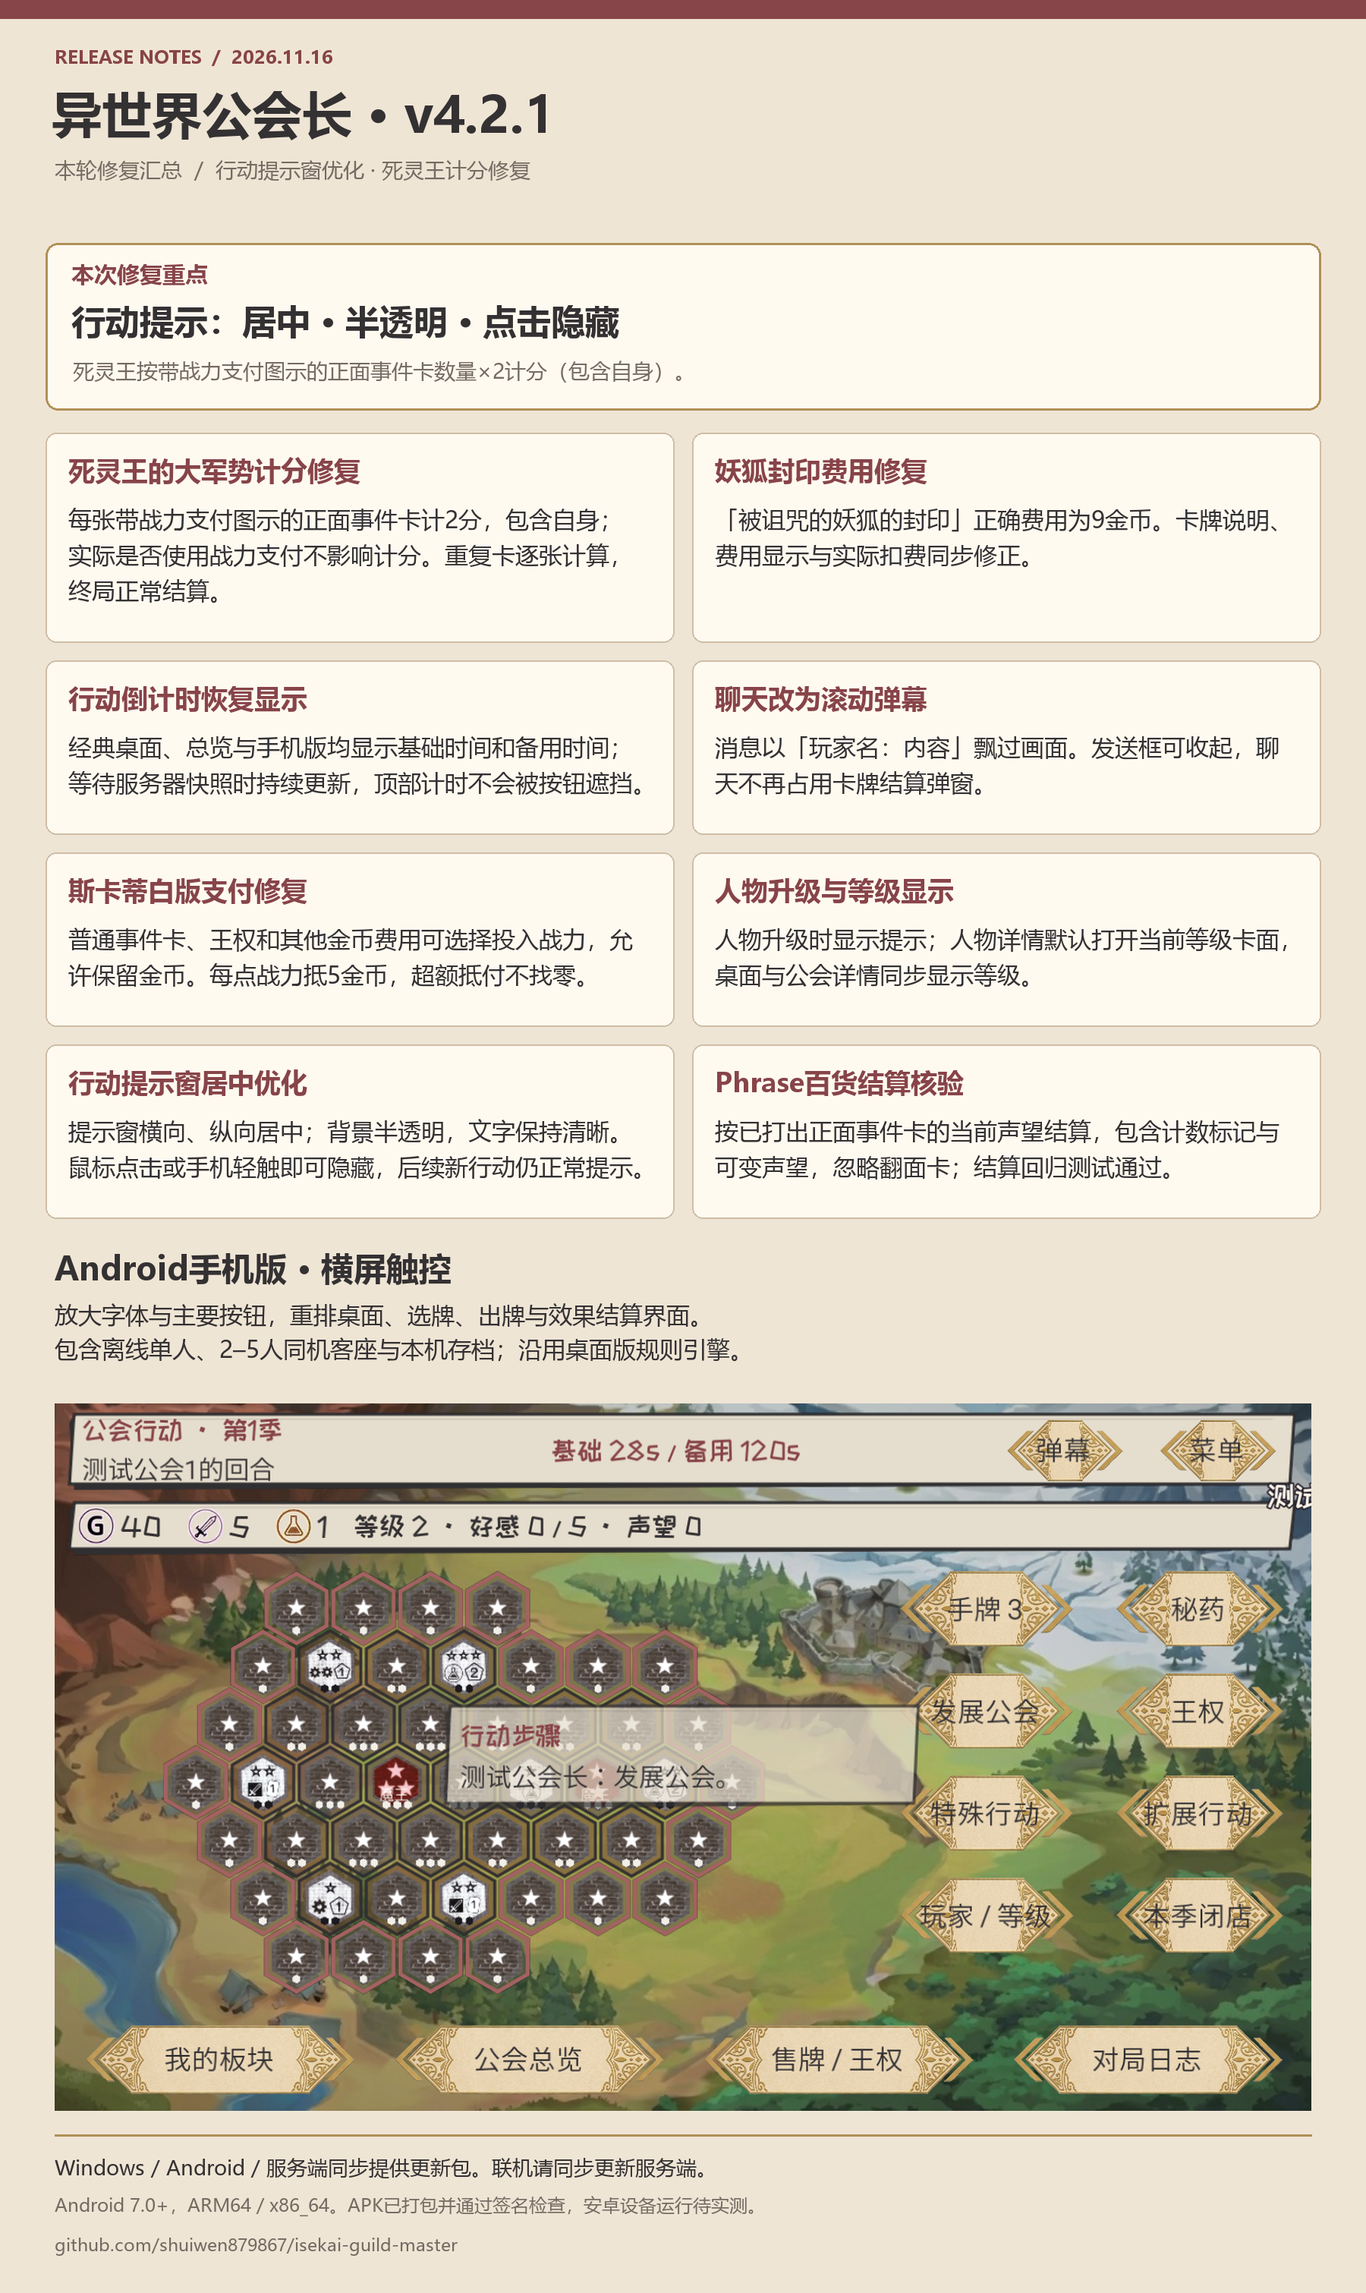
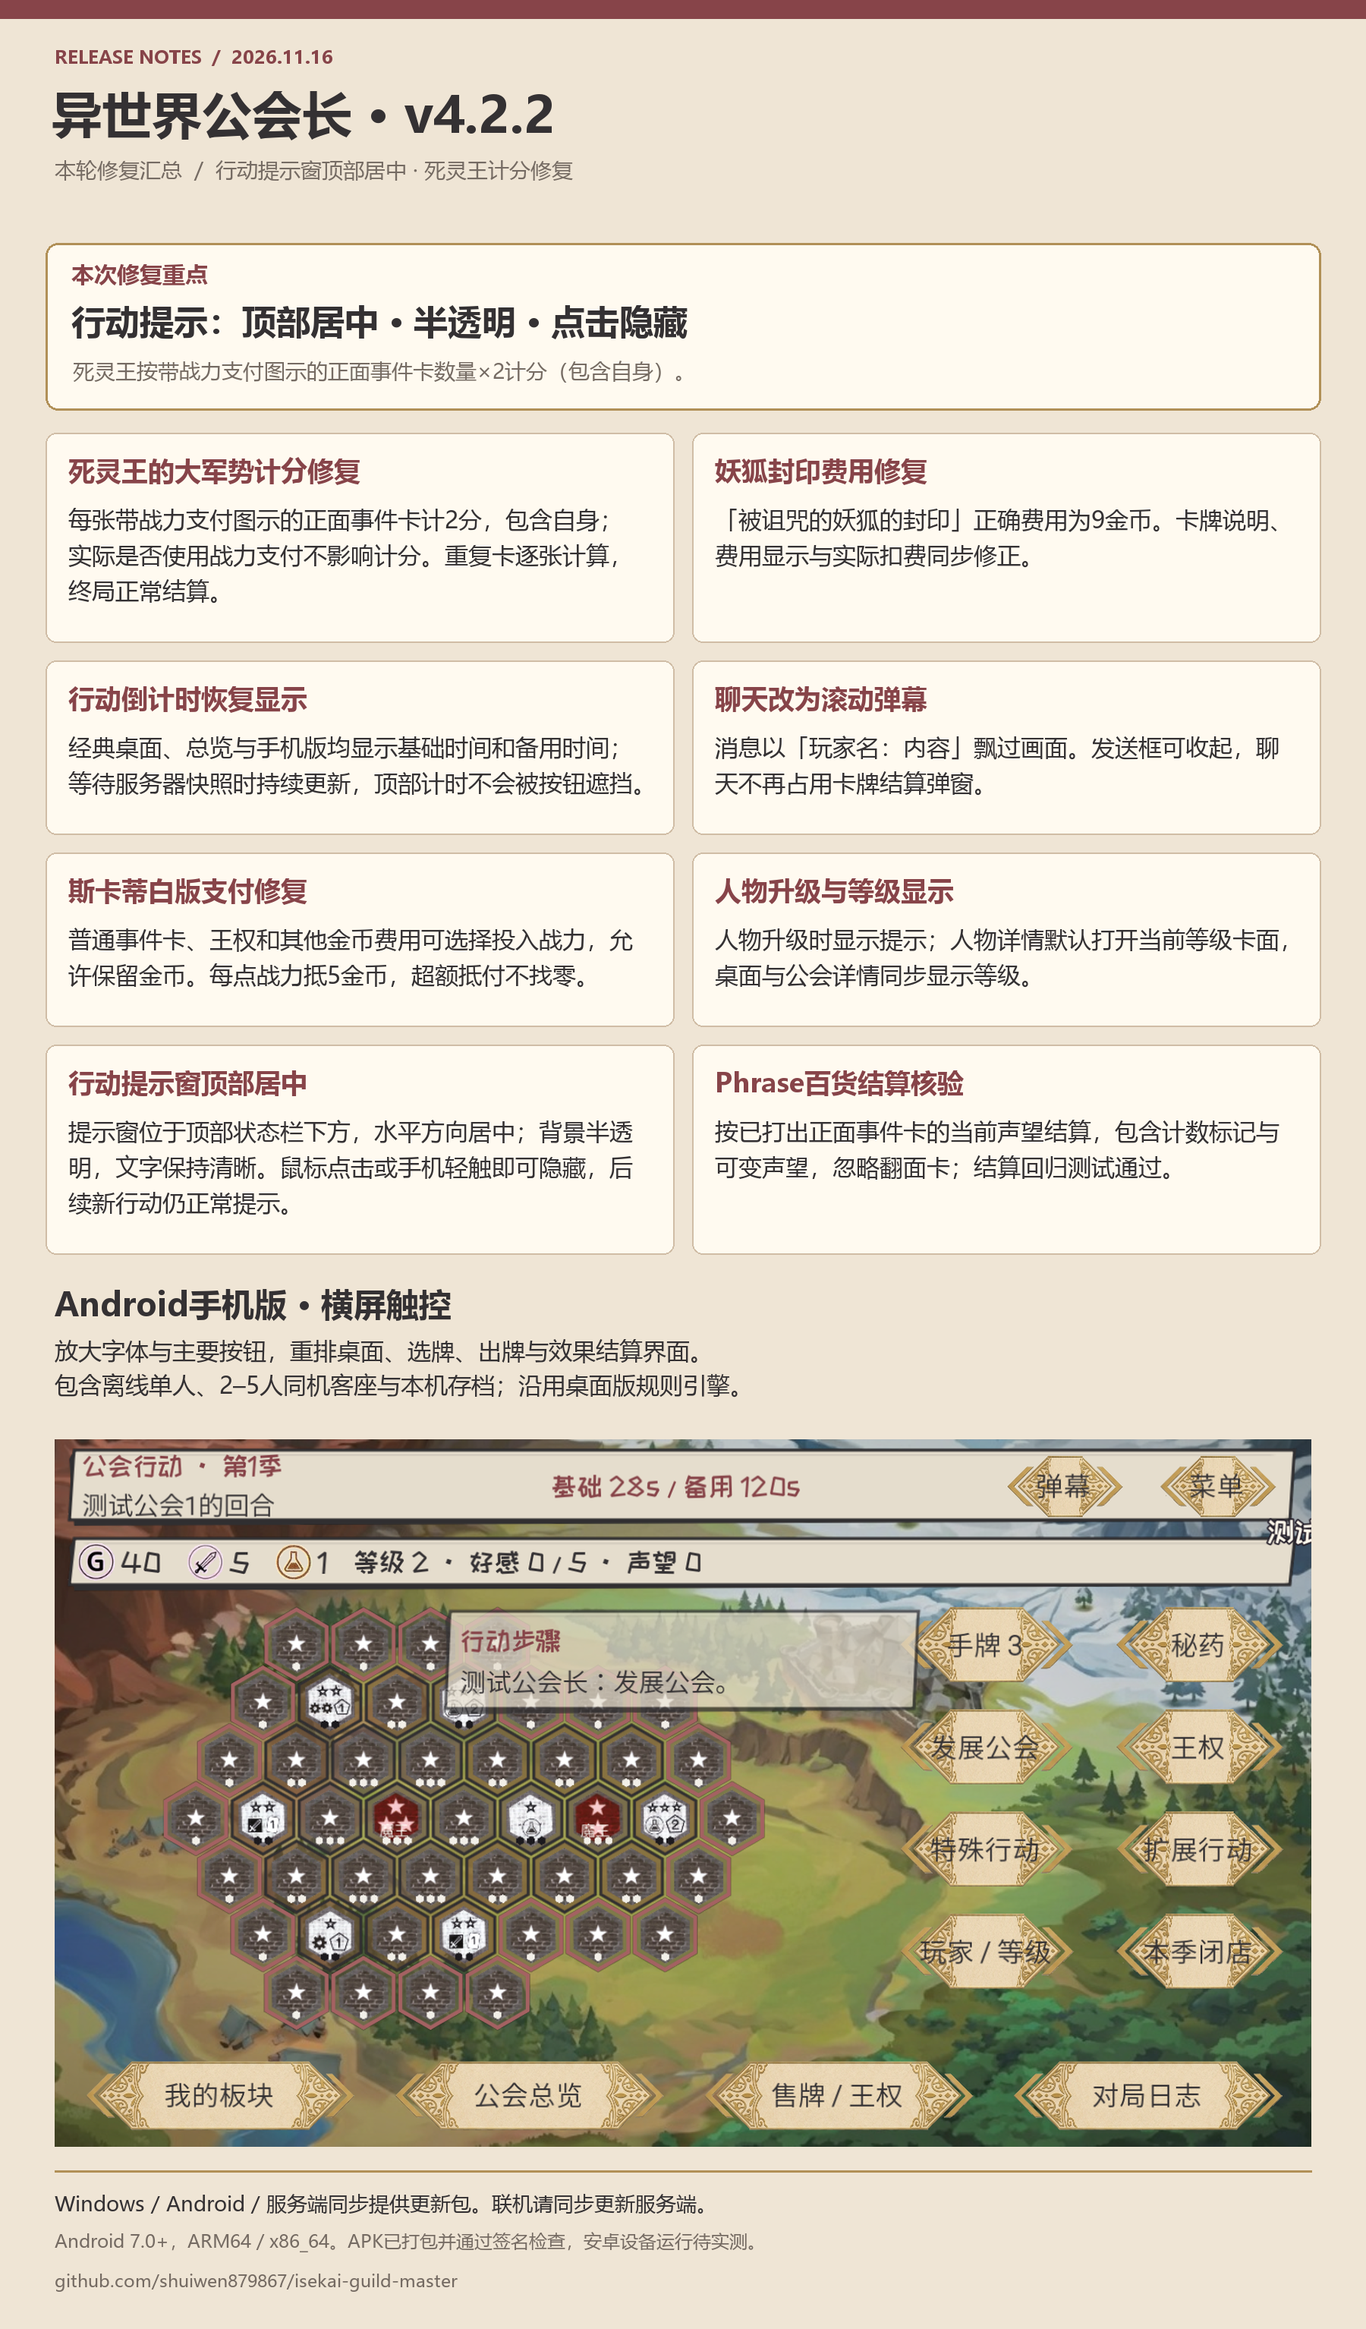
Position action notices at the top center

Changed region(s): [[0.0311, 0.0311, 0.9644, 0.9646]]

diff --git a/guild-server/site/index.html b/guild-server/site/index.html
@@ -123,7 +123,7 @@
 <p><strong>最终解释：</strong>上述条款如有变动，以本页面最新内容为准。</p>
 </div>
 </section>
-<section class="panel" style="margin:24px auto;max-width:1100px;padding:24px"><h2>4.2 更新与扩充玩法</h2><p>妖狐封印费用修正为9金币；修复倒计时、金币与战力支付、人物等级及多人行动提示。新增滚动弹幕与Android手机版，包含离线单人和同机客座。</p><p><a href="/shots/update-4.2.png">查看完整图片更新日志</a> · <a href="/shots/dlc-guide-4.1.png">查看所有 DLC 玩法长图</a> · <a href="https://github.com/shuiwen879867/isekai-guild-master/releases/tag/v4.2.1">GitHub 下载 4.2 客户端、APK与服务器</a></p></section></main>
+<section class="panel" style="margin:24px auto;max-width:1100px;padding:24px"><h2>4.2 更新与扩充玩法</h2><p>妖狐封印费用修正为9金币；修复倒计时、金币与战力支付、人物等级及多人行动提示。新增滚动弹幕与Android手机版，包含离线单人和同机客座。</p><p><a href="/shots/update-4.2.png">查看完整图片更新日志</a> · <a href="/shots/dlc-guide-4.1.png">查看所有 DLC 玩法长图</a> · <a href="https://github.com/shuiwen879867/isekai-guild-master/releases/tag/v4.2.2">GitHub 下载 4.2 客户端、APK与服务器</a></p></section></main>
 
 <footer><div><img src="/favicon.svg" alt=""><span>异世界公会长</span> · 版本 <b id="footer-version">—</b> · 交流 QQ 群 <b class="qq" id="footer-qq">—</b></div>
 <p class="muted" id="footer-notice"></p></footer>

diff --git a/tools/build_update_posters.py b/tools/build_update_posters.py
@@ -112,7 +112,7 @@ def release_notes_42():
         ('聊天改为滚动弹幕','消息以「玩家名：内容」飘过画面。发送框可收起，聊天不再占用卡牌结算弹窗。'),
         ('斯卡蒂白版支付修复','普通事件卡、王权和其他金币费用可选择投入战力，允许保留金币。每点战力抵5金币，超额抵付不找零。'),
         ('人物升级与等级显示','人物升级时显示提示；人物详情默认打开当前等级卡面，桌面与公会详情同步显示等级。'),
-        ('行动提示窗居中优化','提示窗横向、纵向居中；背景半透明，文字保持清晰。鼠标点击或手机轻触即可隐藏，后续新行动仍正常提示。'),
+        ('行动提示窗顶部居中','提示窗位于顶部状态栏下方，水平方向居中；背景半透明，文字保持清晰。鼠标点击或手机轻触即可隐藏，后续新行动仍正常提示。'),
         ('Phrase百货结算核验','按已打出正面事件卡的当前声望结算，包含计数标记与可变声望，忽略翻面卡；结算回归测试通过。'),
     ]
     rows=[]
@@ -120,15 +120,15 @@ def release_notes_42():
         pair=items[index:index+2]
         height=105+max(len(lines(body,750,31))*47 for _,body in pair)+30
         rows.append((pair,height))
-    shot=Image.open(ROOT/'qa/popup-center/mobile-action-popup.png').convert('RGB')
+    shot=Image.open(ROOT/'qa/popup-top-center/mobile-action-popup.png').convert('RGB')
     shot=shot.resize((1656,round(1656*shot.height/shot.width)),Image.Resampling.LANCZOS)
     total=570+sum(h+24 for _,h in rows)+220+shot.height+240
     image=Image.new('RGB',(1800,total),BG)
-    header(image,'RELEASE NOTES  /  2026.11.16','异世界公会长 · v'+version,'本轮修复汇总  /  行动提示窗优化 · 死灵王计分修复')
+    header(image,'RELEASE NOTES  /  2026.11.16','异世界公会长 · v'+version,'本轮修复汇总  /  行动提示窗顶部居中 · 死灵王计分修复')
     d=ImageDraw.Draw(image)
     d.rounded_rectangle((60,320,1740,540),radius=16,fill=PAPER,outline=GOLD,width=3)
     d.text((94,340),'本次修复重点',font=font(30,True),fill=RUST)
-    d.text((94,392),'行动提示：居中 · 半透明 · 点击隐藏',font=font(45,True),fill=INK)
+    d.text((94,392),'行动提示：顶部居中 · 半透明 · 点击隐藏',font=font(45,True),fill=INK)
     paragraph(d,(96,469),'死灵王按带战力支付图示的正面事件卡数量×2计分（包含自身）。',1530,28,MUTED)
     y=570
     for pair,height in rows:

diff --git a/tools/publish_update_release.py b/tools/publish_update_release.py
@@ -81,7 +81,7 @@ def main():
     def matches(item,path):return item.get('digest')=='sha256:'+sha(path) and item['size']==path.stat().st_size
 
     if not args.publish:
-        api(base+'/releases/'+str(release_id),dict(tag_name=TAG,target_commitish=commit,draft=True,name='异世界公会长 v'+VERSION+' · 行动提示窗与死灵王计分修复',body=(ROOT/'docs/RELEASE_4_2.md').read_text('utf8')))
+        api(base+'/releases/'+str(release_id),dict(tag_name=TAG,target_commitish=commit,draft=True,name='异世界公会长 v'+VERSION+' · 行动提示窗顶部居中修正',body=(ROOT/'docs/RELEASE_4_2.md').read_text('utf8')))
         staged=[]
         for path,name,mime in assets:
             current={item['name']:item for item in api(base+'/releases/'+str(release_id)+'/assets')}
@@ -123,7 +123,7 @@ def main():
         current={item['name']:item for item in api(base+'/releases/'+str(release_id)+'/assets')}
         for path,name,mime in assets:
             if name not in current or not matches(current[name],path):raise RuntimeError('Release assets are not ready: '+name)
-        api(base+'/releases/'+str(release_id),dict(tag_name=TAG,target_commitish=commit,draft=False,prerelease=False,name='异世界公会长 v'+VERSION+' · 行动提示窗与死灵王计分修复',body=(ROOT/'docs/RELEASE_4_2.md').read_text('utf8'),make_latest='true'))
+        api(base+'/releases/'+str(release_id),dict(tag_name=TAG,target_commitish=commit,draft=False,prerelease=False,name='异世界公会长 v'+VERSION+' · 行动提示窗顶部居中修正',body=(ROOT/'docs/RELEASE_4_2.md').read_text('utf8'),make_latest='true'))
     release=api(base+'/releases/'+str(release_id))
     remote={item['name']:item for item in api(base+'/releases/'+str(release_id)+'/assets')}
     receipt=dict(repository='https://github.com/'+REPO,release_id=release_id,commit=commit,draft=release['draft'],release_url=release['html_url'],voice_manifest_sha256=manifest_sha,assets=[dict(name=name,url=remote[name]['browser_download_url'],size=remote[name]['size'],sha256=sha(path)) for path,name,mime in assets])

diff --git a/GuildMaster-Godot/README.md b/GuildMaster-Godot/README.md
@@ -1,14 +1,14 @@
-# 异世界公会长 4.2.1
+# 异世界公会长 4.2.2
 
 基于台湾友人 [cat90132-beep 的 refactor v4.0 发布版](https://github.com/cat90132-beep/isekai-guild-master/releases/tag/refactor)继续更新，保留扫描卡面、繁简切换、同机客座、交接确认、本机存读档、扩充规则与操作改进。上游完整说明见 [UPSTREAM_README](docs/UPSTREAM_README.md)。
 
-本次构建位于 `dist/`：Windows 解压 `GuildMaster-Windows-4.2.1.zip` 后运行 `GuildMaster.exe`；Android 安装 `GuildMaster-Android-4.2.1.apk`。Android 需要 Android 7.0 以上、64 位 ARM 或 x86_64，横屏使用，已内嵌离线 Python 规则引擎，无需另外安装运行库。
+本次构建位于 `dist/`：Windows 解压 `GuildMaster-Windows-4.2.2.zip` 后运行 `GuildMaster.exe`；Android 安装 `GuildMaster-Android-4.2.2.apk`。Android 需要 Android 7.0 以上、64 位 ARM 或 x86_64，横屏使用，已内嵌离线 Python 规则引擎，无需另外安装运行库。
 
 ![本轮更新日志](docs/更新日志_4.2.png)
 
 ## 本次修改
 
-- 4.2.1：行动步骤窗口移到画面正中央，背景半透明，点击或轻触可隐藏。
+- 4.2.2：行动步骤窗口改为顶部状态栏下方水平居中，背景半透明，点击或轻触可隐藏。
 - 修复死灵王的大军势（A-029）的终局计分：每张带战力支付图示的正面事件卡得2分，包含自身，与实付战力无关；重复卡逐张计入。修正打出时秘药收益，多人本人合计3瓶、其他玩家各1瓶；单人按原规则不结算全体收益。
 
 - 修复「被诅咒的妖狐的封印」（卡牌99）费用误写为18的问题：正确费用为9金币，卡牌说明、界面显示与实际支付同步修正。
@@ -38,7 +38,7 @@
 
 默认游戏服务器 `guanpeng666.cn:6677`；回放为 `http://guanpeng666.cn:6767`，介绍与更新长图在 `http://guanpeng666.cn:6680`。4.2客户端与服务端需一起更新。只更新源码不会改变已经运行的服务。
 
-服务器使用 `dist/guild-server-4.2.1.zip`，或直接使用仓库 `guild-server/`。仅需 Python 3.9以上及标准库；保留自己的 `server_config.json`、`replays/`，在没有进行中对局时停止旧服务，替换程序及网页后重启：
+服务器使用 `dist/guild-server-4.2.2.zip`，或直接使用仓库 `guild-server/`。仅需 Python 3.9以上及标准库；保留自己的 `server_config.json`、`replays/`，在没有进行中对局时停止旧服务，替换程序及网页后重启：
 
 ```sh
 python3 server.py --host 0.0.0.0 --port 6677 --web-port 6767 --site-port 6680

diff --git a/README.md b/README.md
@@ -1,14 +1,14 @@
-# 异世界公会长 4.2.1
+# 异世界公会长 4.2.2
 
 基于台湾友人 [cat90132-beep 的 refactor v4.0 发布版](https://github.com/cat90132-beep/isekai-guild-master/releases/tag/refactor)继续更新，保留扫描卡面、繁简切换、同机客座、交接确认、本机存读档、扩充规则与操作改进。上游完整说明见 [UPSTREAM_README](docs/UPSTREAM_README.md)。
 
-本次构建位于 `dist/`：Windows 解压 `GuildMaster-Windows-4.2.1.zip` 后运行 `GuildMaster.exe`；Android 安装 `GuildMaster-Android-4.2.1.apk`。Android 需要 Android 7.0 以上、64 位 ARM 或 x86_64，横屏使用，已内嵌离线 Python 规则引擎，无需另外安装运行库。
+本次构建位于 `dist/`：Windows 解压 `GuildMaster-Windows-4.2.2.zip` 后运行 `GuildMaster.exe`；Android 安装 `GuildMaster-Android-4.2.2.apk`。Android 需要 Android 7.0 以上、64 位 ARM 或 x86_64，横屏使用，已内嵌离线 Python 规则引擎，无需另外安装运行库。
 
 ![本轮更新日志](docs/更新日志_4.2.png)
 
 ## 本次修改
 
-- 4.2.1：行动步骤窗口移到画面正中央，背景半透明，点击或轻触可隐藏。
+- 4.2.2：行动步骤窗口改为顶部状态栏下方水平居中，背景半透明，点击或轻触可隐藏。
 - 修复死灵王的大军势（A-029）的终局计分：每张带战力支付图示的正面事件卡得2分，包含自身，与实付战力无关；重复卡逐张计入。修正打出时秘药收益，多人本人合计3瓶、其他玩家各1瓶；单人按原规则不结算全体收益。
 
 - 修复「被诅咒的妖狐的封印」（卡牌99）费用误写为18的问题：正确费用为9金币，卡牌说明、界面显示与实际支付同步修正。
@@ -38,7 +38,7 @@
 
 默认游戏服务器 `guanpeng666.cn:6677`；回放为 `http://guanpeng666.cn:6767`，介绍与更新长图在 `http://guanpeng666.cn:6680`。4.2客户端与服务端需一起更新。只更新源码不会改变已经运行的服务。
 
-服务器使用 `dist/guild-server-4.2.1.zip`，或直接使用仓库 `guild-server/`。仅需 Python 3.9以上及标准库；保留自己的 `server_config.json`、`replays/`，在没有进行中对局时停止旧服务，替换程序及网页后重启：
+服务器使用 `dist/guild-server-4.2.2.zip`，或直接使用仓库 `guild-server/`。仅需 Python 3.9以上及标准库；保留自己的 `server_config.json`、`replays/`，在没有进行中对局时停止旧服务，替换程序及网页后重启：
 
 ```sh
 python3 server.py --host 0.0.0.0 --port 6677 --web-port 6767 --site-port 6680

diff --git a/docs/RELEASE_4_2.md b/docs/RELEASE_4_2.md
@@ -1,6 +1,6 @@
-Windows 下载 **GuildMaster-Windows-4.2.1.zip**，完整解压后运行 **GuildMaster.exe**。Android 安装 **GuildMaster-Android-4.2.1.apk**，需要 Android 7.0 以上的 ARM64 / x86_64 设备。默认服务器仍为 `guanpeng666.cn:6677`。
+Windows 下载 **GuildMaster-Windows-4.2.2.zip**，完整解压后运行 **GuildMaster.exe**。Android 安装 **GuildMaster-Android-4.2.2.apk**，需要 Android 7.0 以上的 ARM64 / x86_64 设备。默认服务器仍为 `guanpeng666.cn:6677`。
 
-- **行动步骤窗口**：移至画面正中央，背景半透明、文字保持清晰；鼠标点击或手机轻触可立即隐藏，后续新行动仍会正常提示。
+- **4.2.2 行动步骤窗口位置修正**：位于顶部状态栏下方，水平方向居中；背景半透明、文字保持清晰，鼠标点击或手机轻触可立即隐藏，后续新行动仍会正常提示。
 - **死灵王的大军势（A-029）**：修正固定2分的错误，每张带战力支付图示的正面事件卡计2分，包含自身；不要求实际使用战力支付。重复卡逐张计入，翻面卡不计入。多人打出时本人共得3秘药、其他玩家各1；单人保留跳过全体收益的规则，得2秘药。
 - **被诅咒的妖狐的封印**：费用由错误的18金币修正为9金币，界面说明、费用显示与实际扣费同步修正。
 - **行动倒计时**：恢复经典桌面、总览与手机版的基础时间／备用时间显示，等待服务器快照时持续更新。
@@ -11,6 +11,6 @@ Windows 下载 **GuildMaster-Windows-4.2.1.zip**，完整解压后运行 **Guild
 - **Phrase百货**：结算核验通过，按正面事件卡的当前声望计算，包含计数标记与可变声望，忽略翻面卡。
 - **Android手机版**：横屏触控布局，放大字体和主要按钮，重排桌面、选牌、出牌与效果结算界面；包含离线单人、2–5人同机客座及本机存档。
 
-联机请同步更新 **guild-server-4.2.1.zip**；服务器配置与回放应保留。APK已完成构建和签名检查，安卓设备运行尚未实测。
+本次窗口位置修正兼容4.2.1服务器；首次从旧版升级可使用 **guild-server-4.2.2.zip**，保留服务器配置与回放。APK已完成构建和签名检查，安卓设备运行尚未实测。
 
-![更新日志长图](https://github.com/shuiwen879867/isekai-guild-master/releases/download/v4.2.1/update-log-4.2.png)
+![更新日志长图](https://github.com/shuiwen879867/isekai-guild-master/releases/download/v4.2.2/update-log-4.2.png)
